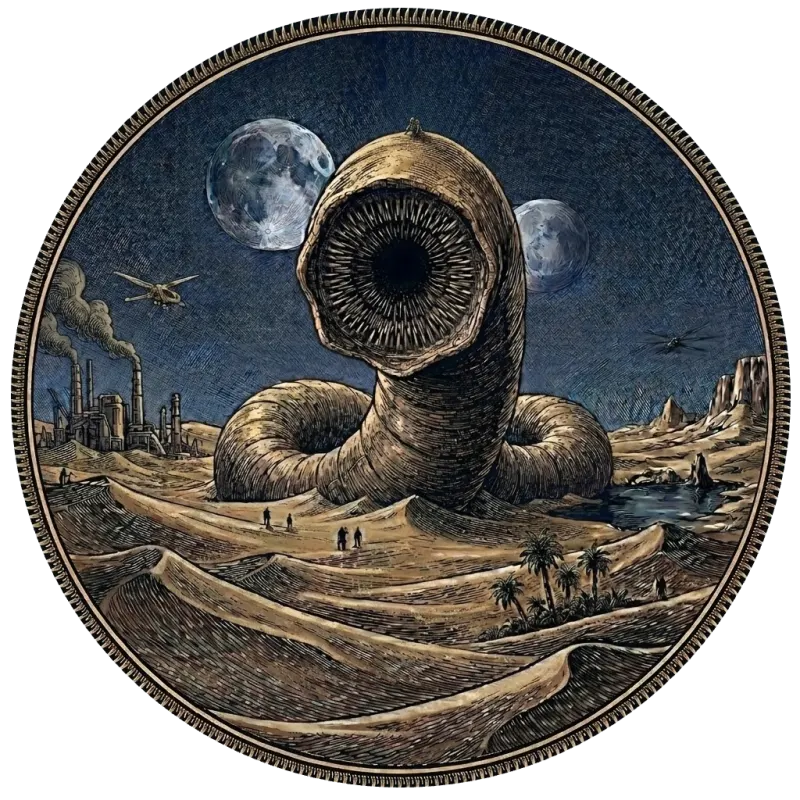
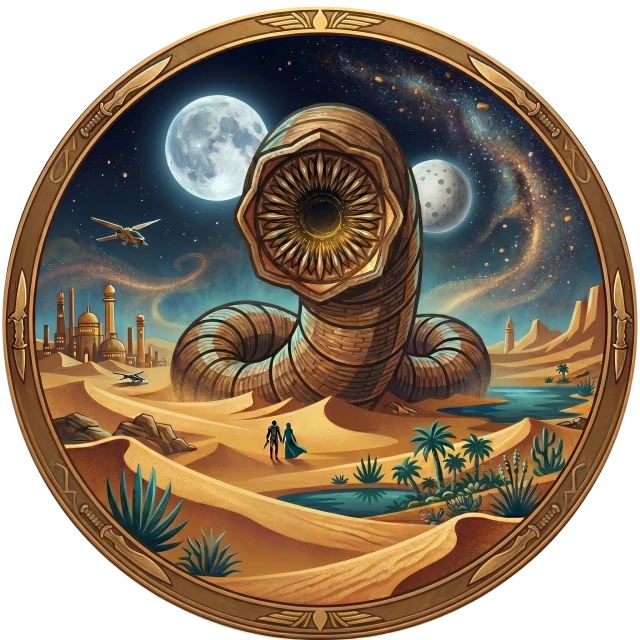
Dune: new #1 medallion (640px webp), crysknife cursor, sandy click sparks
- Replace medallion with detailed/galaxy art, downscaled 800->640px webp (104KB), cache-busted via ?v=2
- Cursor is now a crysknife (sandworm-tooth blade), tilted down-left with tip as the click hotspot
- Click-burst particles recolored sand (was blue) and shrunk 30%
- Add ?pick picker bar for evaluating three medallion candidates

diff --git a/dune.html b/dune.html
@@ -35,11 +35,12 @@
 
     body { cursor: none; }
     #cursor {
-      position: fixed; left: 0; top: 0; width: 18px; height: 12px;
+      position: fixed; left: 0; top: 0; width: 18px; height: 20px;
       pointer-events: none; z-index: 100000;
       will-change: transform;
-      transform: translate(-50%, -50%);
-      filter: drop-shadow(0 0 5px rgba(60,120,200,0.4)) drop-shadow(0 0 10px rgba(40,90,180,0.2));
+      transform-origin: 50% 3.85%;
+      transform: translate(-50%, -3.85%) rotate(205deg);
+      filter: drop-shadow(0 0 4px rgba(212,136,58,0.45)) drop-shadow(0 0 9px rgba(160,100,30,0.25));
     }
 
     /* ── BACKGROUNDS ──────────────────────────────────────────── */
@@ -599,10 +600,10 @@
 
     .click-particle {
       position: fixed;
-      background: #6ea0e8;
+      background: #e6c187;
       clip-path: polygon(50% 0%, 100% 50%, 50% 100%, 0% 50%);
       pointer-events: none; z-index: 9998;
-      filter: drop-shadow(0 0 4px rgba(60,120,200,0.6)) drop-shadow(0 0 10px rgba(40,90,180,0.25));
+      filter: drop-shadow(0 0 4px rgba(212,136,58,0.6)) drop-shadow(0 0 10px rgba(160,100,30,0.3));
       animation: clickBurst 1.2s ease-out forwards;
       will-change: transform, opacity; contain: layout style;
     }
@@ -768,11 +769,27 @@
 <body>
 
 <div id="cursor">
-  <svg viewBox="0 0 18 12" fill="none" xmlns="http://www.w3.org/2000/svg" width="100%" height="100%">
-    <path d="M0.5,6 Q9,0 17.5,6 Q9,12 0.5,6Z" fill="rgba(30,60,120,0.35)" stroke="rgba(80,140,220,0.6)" stroke-width="0.4"/>
-    <circle cx="9" cy="6" r="3.2" fill="rgba(40,100,200,0.5)" stroke="rgba(100,160,240,0.4)" stroke-width="0.3"/>
-    <circle cx="9" cy="6" r="1.4" fill="rgba(20,60,160,0.8)"/>
-    <circle cx="9" cy="6" r="0.5" fill="rgba(120,180,255,0.9)"/>
+  <svg viewBox="0 0 24 26" fill="none" xmlns="http://www.w3.org/2000/svg" width="100%" height="100%">
+    <defs>
+      <linearGradient id="ckBlade" x1="0" y1="0" x2="1" y2="0">
+        <stop offset="0" stop-color="#8a5a28"/>
+        <stop offset="0.42" stop-color="#ecdcb8"/>
+        <stop offset="0.58" stop-color="#fbf3dc"/>
+        <stop offset="1" stop-color="#a8895a"/>
+      </linearGradient>
+    </defs>
+    <!-- crysknife blade (carved from a sandworm's tooth) -->
+    <path d="M12 1 C 15 6, 15.4 11, 13.4 15.5 L 10.6 15.5 C 8.6 11, 9 6, 12 1 Z"
+          fill="url(#ckBlade)" stroke="rgba(110,74,34,0.75)" stroke-width="0.5"/>
+    <path d="M12 3 L 12 15" stroke="rgba(255,250,238,0.7)" stroke-width="0.5"/>
+    <!-- guard -->
+    <path d="M8 15.6 Q 12 14.4, 16 15.6 L 15 17.4 Q 12 16.4, 9 17.4 Z"
+          fill="#b0712f" stroke="rgba(90,55,20,0.7)" stroke-width="0.3"/>
+    <!-- wrapped grip -->
+    <rect x="10.2" y="17.2" width="3.6" height="7" rx="1.4" fill="#6e4a22" stroke="rgba(90,55,20,0.6)" stroke-width="0.3"/>
+    <path d="M10.3 19 H13.7 M10.3 20.6 H13.7 M10.3 22.2 H13.7" stroke="rgba(204,168,112,0.55)" stroke-width="0.4"/>
+    <!-- pommel -->
+    <circle cx="12" cy="24.4" r="1.2" fill="#c8a870" stroke="rgba(90,55,20,0.6)" stroke-width="0.3"/>
   </svg>
 </div>
 
@@ -836,7 +853,7 @@
 <main>
 
   <div class="hero-container">
-    <img class="hero-img" src="assets/dune-medallion.webp" alt="Dune sandworm medallion" />
+    <img class="hero-img" src="assets/dune-medallion.webp?v=2" alt="Dune sandworm medallion" />
   </div>
 
   <div class="headline">
@@ -1006,7 +1023,7 @@
       p.className = 'click-particle';
       var angle = (Math.PI * 2 * i) / count + (Math.random() - 0.5) * 0.8;
       var spread = Math.random() * 18 + 8;
-      var w = Math.random() * 3 + 3.5;
+      var w = (Math.random() * 3 + 3.5) * 0.7;
       p.style.cssText = "left:" + x + "px;top:" + y + "px;width:" + w + "px;height:" + (w * 1.7) + "px;--dx:" + (Math.cos(angle)*spread) + "px;--dy:" + (Math.sin(angle)*spread) + "px;--rot:" + ((Math.random()-0.5)*120) + "deg;animation-delay:" + (Math.random()*0.1) + "s;";
       document.body.appendChild(p);
       setTimeout(function(el){ return function(){ el.remove(); }; }(p), 1400);
@@ -2096,4 +2113,52 @@
 })();
 </script>
 <!-- ══════════ END GUIDED TOUR ══════════ -->
+
+<!-- ══ MEDALLION PICKER (dev only — active when URL has ?pick) ══ -->
+<script>
+(function(){
+  if (!/[?&]pick/.test(location.search)) return;
+  var opts = [
+    { src: 'assets/dune-pick-1.webp', label: '1 — Detailed' },
+    { src: 'assets/dune-pick-2.webp', label: '2 — Flat / vector' },
+    { src: 'assets/dune-pick-3.webp', label: '3 — Atmospheric' }
+  ];
+  var bar = document.createElement('div');
+  bar.style.cssText = 'position:fixed;bottom:0;left:0;right:0;z-index:99999;background:rgba(10,8,16,0.96);border-top:1px solid rgba(212,136,58,0.3);padding:12px 16px;display:flex;align-items:center;gap:12px;overflow-x:auto;';
+  opts.forEach(function(o, i) {
+    var wrap = document.createElement('div');
+    wrap.style.cssText = 'flex:0 0 auto;text-align:center;cursor:pointer;';
+    var img = document.createElement('img');
+    img.src = o.src + '?cb=' + Date.now();
+    img.style.cssText = 'width:80px;height:80px;object-fit:contain;border-radius:50%;border:2px solid rgba(212,136,58,0.3);transition:border-color .2s;background:rgba(255,255,255,0.04);';
+    img.onerror = function(){
+      img.style.display='none';
+      var miss = document.createElement('div');
+      miss.textContent = '⚠ not saved';
+      miss.style.cssText = 'width:80px;height:80px;border-radius:50%;border:2px dashed rgba(232,80,60,0.6);display:flex;align-items:center;justify-content:center;color:rgba(232,120,100,0.9);font-size:10px;text-align:center;font-family:sans-serif;';
+      wrap.insertBefore(miss, lbl);
+    };
+    img.onmouseover = function(){ img.style.borderColor='rgba(212,136,58,0.9)'; };
+    img.onmouseout = function(){ img.style.borderColor='rgba(212,136,58,0.3)'; };
+    img.onclick = function(){
+      var hero = document.querySelector('.hero-img');
+      if (hero) hero.src = o.src + '?cb=' + Date.now();
+      bar.querySelectorAll('img').forEach(function(im){ im.style.borderColor='rgba(212,136,58,0.3)'; });
+      img.style.borderColor='rgba(232,200,80,1)';
+    };
+    var lbl = document.createElement('div');
+    lbl.textContent = o.label;
+    lbl.style.cssText = 'color:rgba(200,168,112,0.8);font-size:10px;margin-top:4px;font-family:sans-serif;';
+    wrap.appendChild(img); wrap.appendChild(lbl);
+    bar.appendChild(wrap);
+  });
+  var close = document.createElement('button');
+  close.textContent = '✕ close picker';
+  close.style.cssText = 'margin-left:auto;flex-shrink:0;background:none;border:1px solid rgba(212,136,58,0.4);color:rgba(200,168,112,0.8);padding:6px 12px;border-radius:20px;cursor:pointer;font-size:11px;font-family:sans-serif;';
+  close.onclick = function(){ bar.remove(); };
+  bar.appendChild(close);
+  document.body.appendChild(bar);
+})();
+</script>
+<!-- ══ END MEDALLION PICKER ══ -->
 </body></html>
